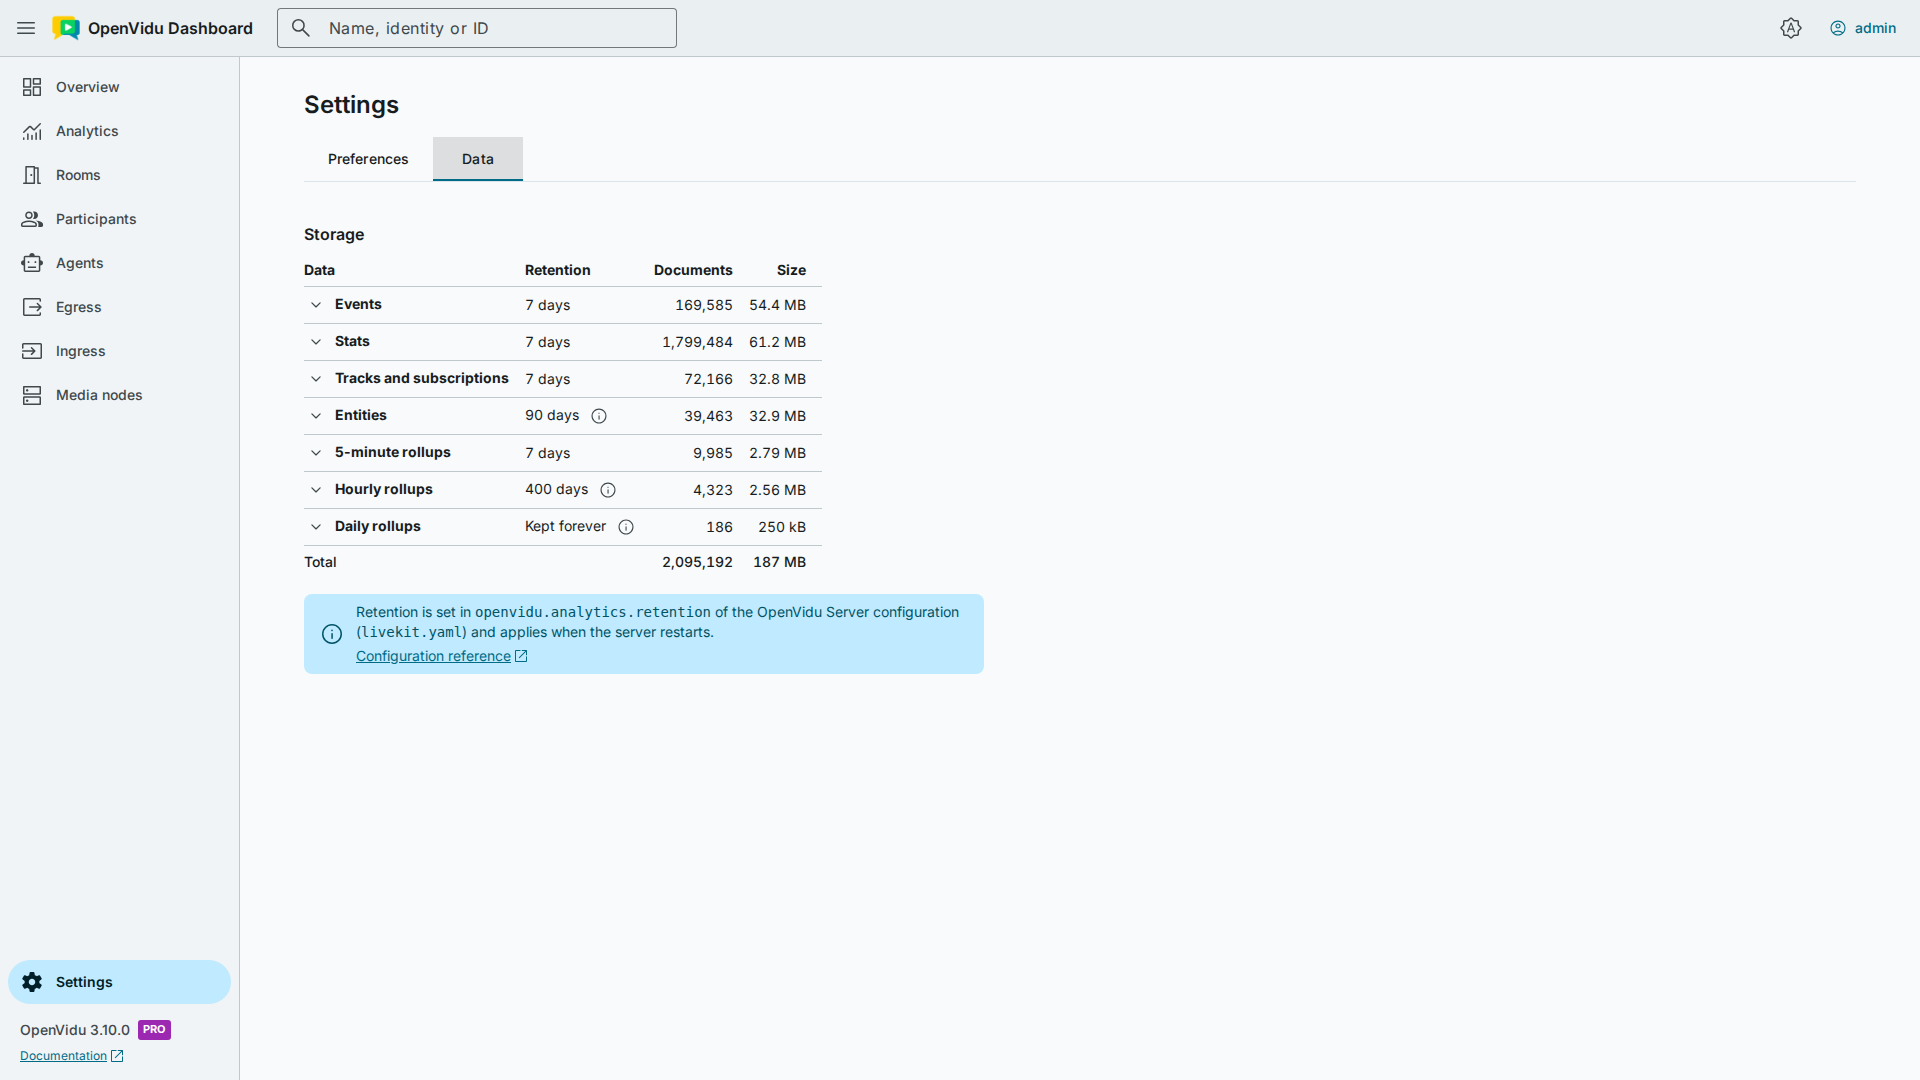
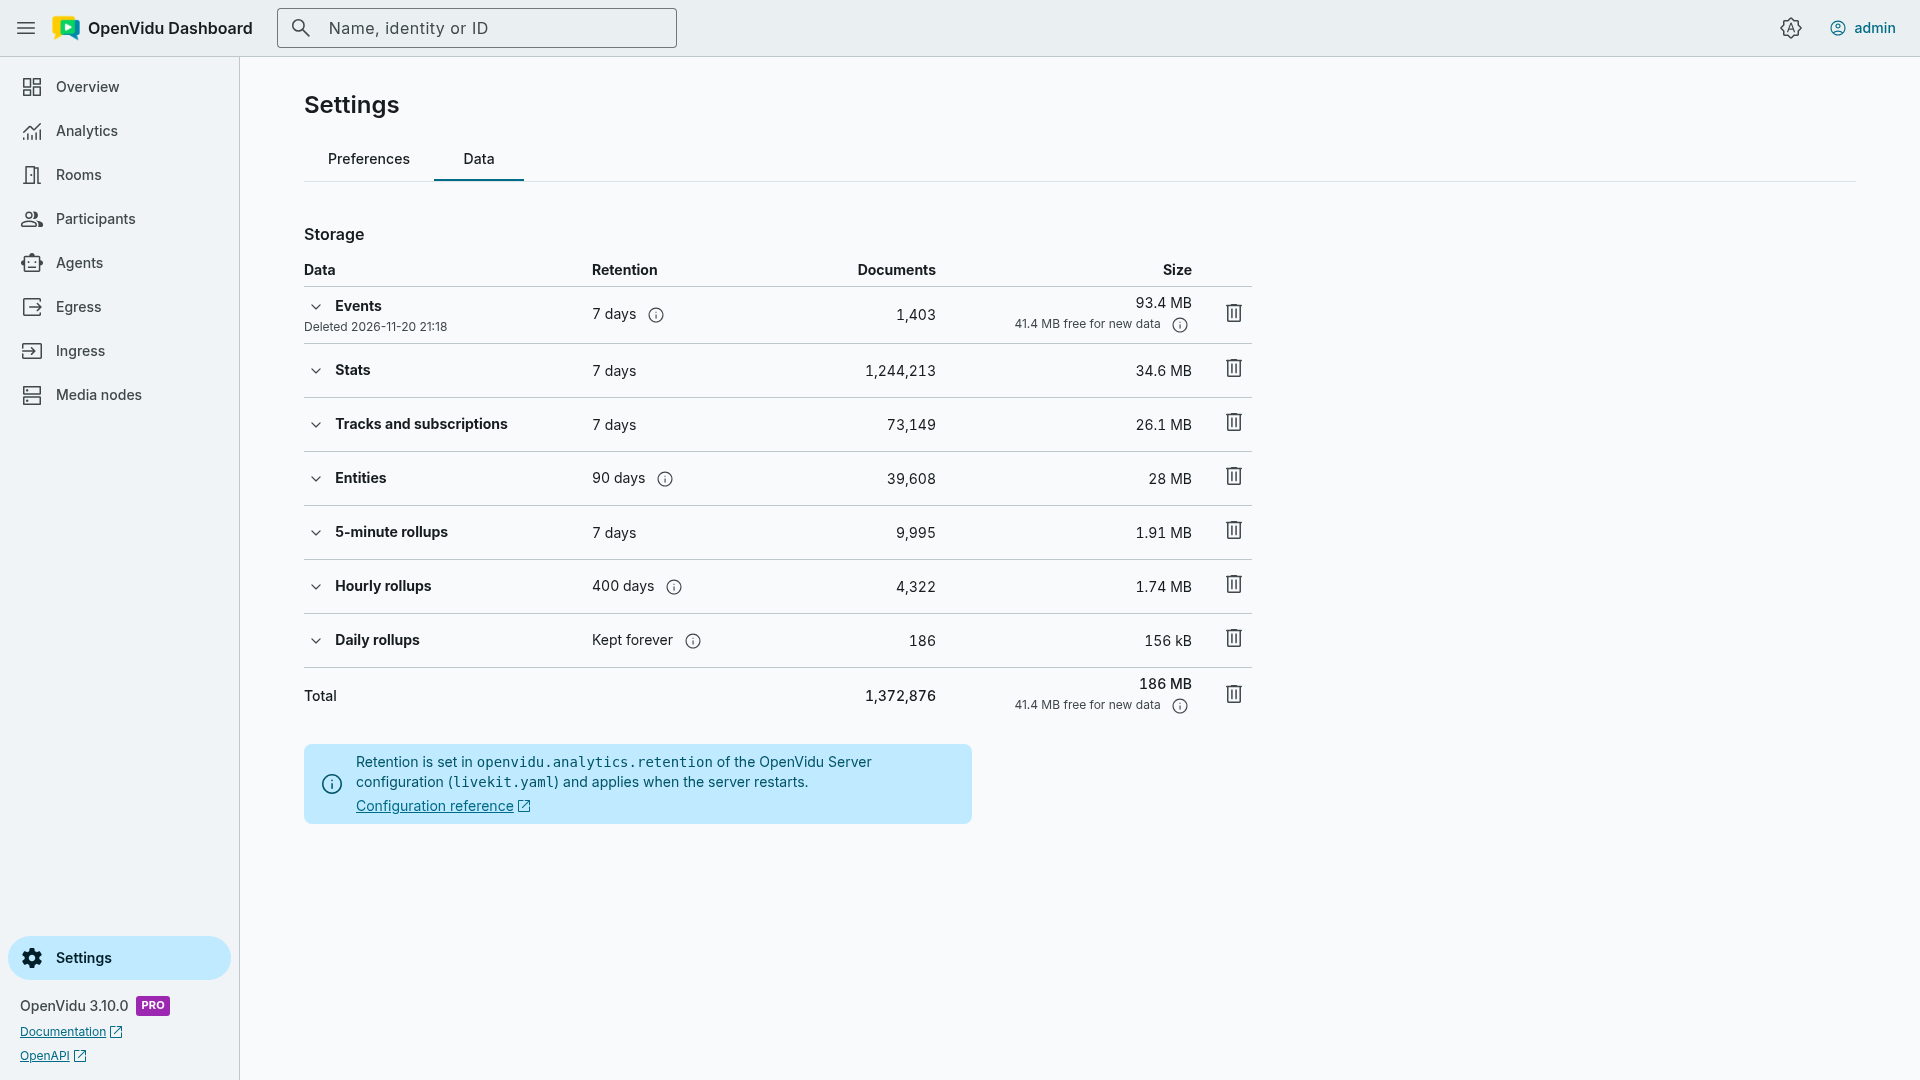
docs(dashboard): deleting analytics data and freeing disk space, with the Settings data screenshots showing the delete buttons

diff --git a/docs/docs/self-hosting/production-ready/observability/openvidu-dashboard.md b/docs/docs/self-hosting/production-ready/observability/openvidu-dashboard.md
@@ -269,7 +269,7 @@ Every list and every Analytics section can be taken out of the dashboard, to wor
 ## Settings
 
 - **Preferences**: theme, default time zone, default time range, rows per page and auto-refresh interval. They are stored in the browser.
-- **Data**: the retention of each class of data, the collections that hold it, and their documents and size. While a class has not reached its retention yet, the tab estimates the size it will take once it does. It also shows the progress of a data migration while it runs and, after an upgrade from a version before 3.10, the analytics data of that version while OpenVidu Server keeps it for a rollback.
+- **Data**: the retention of each class of data, the collections that hold it, and their documents and size. While a class has not reached its retention yet, the tab estimates the size it will take once it does. It also shows the progress of a data migration while it runs and, after an upgrade from a version before 3.10, the analytics data of that version while OpenVidu Server keeps it for a rollback. Each class has a delete button, and the one of the **Total** row deletes them all: see [Deleting analytics data](#deleting-analytics-data).
 
 ![Data tab of the Settings page](../../../../assets/images/platform/self-hosting/production-ready/observability/openvidu-dashboard/settings-data-light.png#only-light){ .round-corners loading=lazy }
 ![Data tab of the Settings page](../../../../assets/images/platform/self-hosting/production-ready/observability/openvidu-dashboard/settings-data-dark.png#only-dark){ .round-corners loading=lazy }
@@ -289,7 +289,7 @@ When the end of a room, participant session, egress or ingress session never arr
 
 The first start of OpenVidu Server 3.10 or later on a deployment upgraded from a previous version migrates its analytics data in the background, while new data is written as usual. The dashboard shows the progress of the migration in a banner, in the Overview and in Settings.
 
-After the migration, OpenVidu Server keeps the analytics data of the previous version, the `legacy_events` and `stats` collections, so that a rollback to that version still finds it. That data keeps expiring with its own retention (32 days with the installers up to 3.9), and once the date shown in the **Data** tab of [Settings](#settings) has passed, OpenVidu Server removes both collections and frees their disk space.
+After the migration, OpenVidu Server keeps the analytics data of the previous version, the `legacy_events` and `stats` collections, so that a rollback to that version still finds it. That data keeps expiring with its own retention (32 days with the installers up to 3.9), and once the date shown in the **Data** tab of [Settings](#settings) has passed, OpenVidu Server removes both collections and frees their disk space. You can also drop them earlier from the **Data** tab of Settings, as explained in [Deleting analytics data](#deleting-analytics-data).
 
 ### Retention
 
@@ -308,3 +308,67 @@ Each class of data is kept for its own time, after which MongoDB deletes it:
 The details of a room or participant show their charts, events and tracks only while that data is retained, and say so when it is not. The Analytics page keeps showing the figures of that time from the rollups.
 
 The **Data** tab of [Settings](#settings) shows how much space each class takes and, while a class has not reached its retention yet, estimates its size at full retention from the data so far, which helps to size each retention. A new `entities` or `tracks` retention applies to what closes after the restart, while the other classes follow the new value at once.
+
+### Deleting analytics data
+
+The **Data** tab of [Settings](#settings) deletes the stored data of a class before its retention does, to make room for new data or to start again from a clean history. Each class has its delete button, and the one of the **Total** row deletes every class at once. A confirmation dialog says what the deletion removes and what it keeps:
+
+| Class | What its deletion removes |
+| --- | --- |
+| Events | The events of rooms, participant sessions, egresses and ingresses that have ended. Their records stay, with empty timelines. |
+| Stats | The statistics of the sessions and tracks that have ended. Their charts become empty, and the Analytics page keeps its figures. |
+| Tracks and subscriptions | The tracks and subscriptions that have ended, with the statistics stored per track. |
+| Entities | The rooms, participant sessions, egresses and ingress sessions that have ended, with their events, statistics, tracks and subscriptions. |
+| 5-minute, hourly and daily rollups | The rollups before the previous 5 minutes, hour or day. The Analytics charts that read them become empty for that time. |
+
+Every deletion keeps the data of the rooms in progress, the data that ended in the last 5 minutes, the latest rollups, the ingresses that were not deleted and the records of the media nodes. A deletion cannot be undone.
+
+A deletion runs in the background, in batches that leave room for the writes of OpenVidu Server, and only one runs at a time. It goes on if you close the browser: the tab shows its progress, and a banner on the other pages says it is running. Once it ends, the tab shows when each class was deleted. If the dashboard stops in the middle of a deletion, the deletion is marked as interrupted and what it deleted stays deleted: start it again to finish.
+
+After an upgrade from a version before 3.10, the **Legacy data** row deletes the analytics data that OpenVidu Server keeps for a rollback, before its date. Its two collections are dropped and their disk space is freed at once, and a rollback to the previous version finds no analytics data. The dialog of the **Total** row offers to delete it as well.
+
+OpenVidu deployments include MongoDB 8.0. With an [external MongoDB](../../how-to-guides/external-mongodb.md), deleting statistics needs MongoDB 7.0 or later, because they are stored in a time-series collection.
+
+#### Freeing disk space
+
+Deleting documents does not make the database files smaller. MongoDB keeps the space they used inside each collection and reuses it for new data of that collection, so the disk usage stops growing until new data fills that space. About a minute after a deletion, the **Data** tab shows under each deleted class how much space MongoDB keeps free for new data.
+
+To give that space back to the operating system, run the MongoDB `compact` command on the collections of the deleted classes, which the **Data** tab lists under each class. `compact` rewrites a collection and loads the disk while it runs, so run it at a quiet time.
+
+Connect to MongoDB with `mongosh` from a machine that reaches port 20000 of the node that runs it:
+
+```bash
+docker run --rm -it --network host mongo:8.0 mongosh \
+    "mongodb://<MONGO_ADMIN_USERNAME>:<MONGO_ADMIN_PASSWORD>@<NODE_IP>:20000/openvidu?authSource=admin&directConnection=true"
+```
+
+Replace the placeholders with values from your deployment. `<MONGO_ADMIN_USERNAME>` and `<MONGO_ADMIN_PASSWORD>` are the MongoDB admin credentials in the `openvidu.env` file, and `<NODE_IP>` is the IP address of the node, as explained below for each deployment.
+
+Then estimate how much space each collection would give back, and compact it. For example, for the `events` collection:
+
+```javascript
+db.runCommand({ compact: "events", dryRun: true, force: true })  // estimatedBytesFreed
+db.runCommand({ compact: "events", force: true })                // bytesFreed
+```
+
+Repeat it for each collection of the deleted classes. The statistics collection, `track_stats`, takes the same form.
+
+=== "Single Node"
+
+    `<NODE_IP>` is the IP address of the OpenVidu node. MongoDB runs there as a replica set with a single member, its primary, and `compact` needs `force: true` to run on a primary.
+
+=== "Elastic"
+
+    `<NODE_IP>` is the IP address of the master node. MongoDB runs there as a replica set with a single member, its primary, and `compact` needs `force: true` to run on a primary.
+
+=== "High Availability"
+
+    MongoDB runs as a replica set with a member on each master node, and `compact` only applies to the member you are connected to. Compact the members one by one, setting `<NODE_IP>` to the IP address of each master node:
+
+    1. Connect to each secondary member and compact its collections without `force: true`. `rs.status()` tells which member is the primary.
+    2. Connect to the primary member and run `rs.stepDown()`, so that another member becomes the primary.
+    3. Connect again to that former primary, now a secondary, and compact its collections without `force: true`.
+
+=== "External MongoDB"
+
+    Follow the procedure of your MongoDB provider to compact collections or to reclaim disk space.
